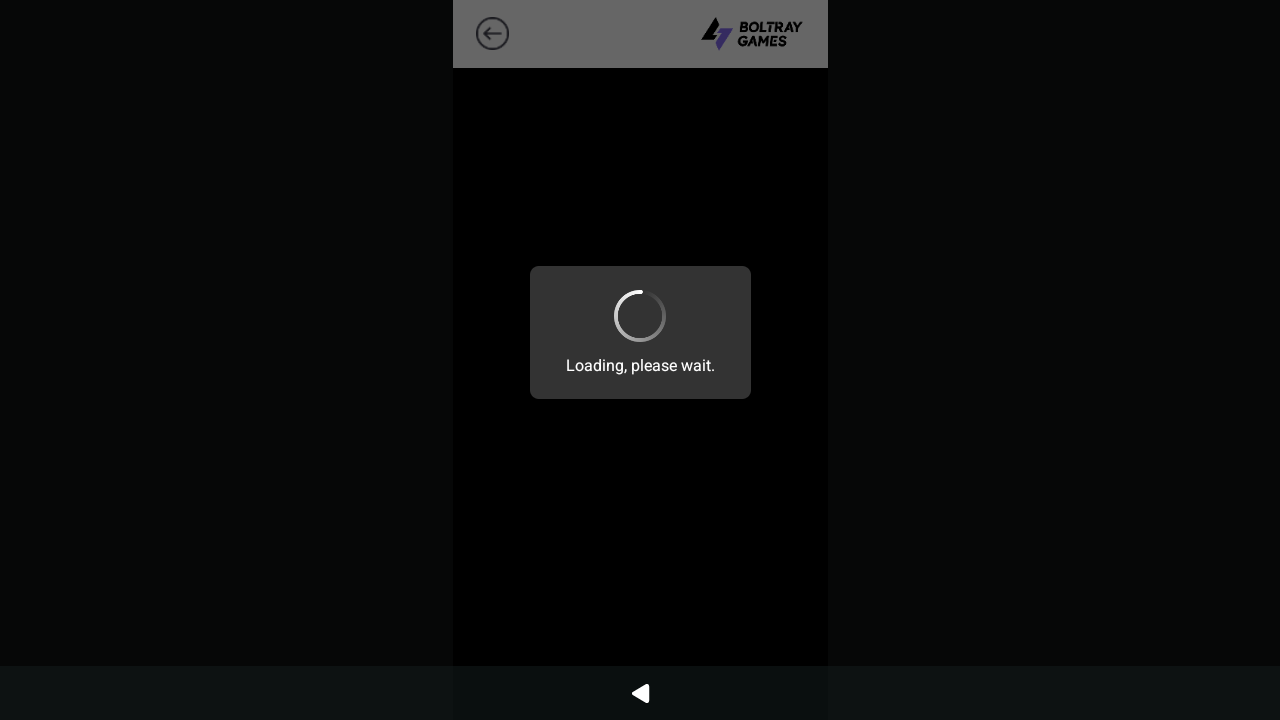
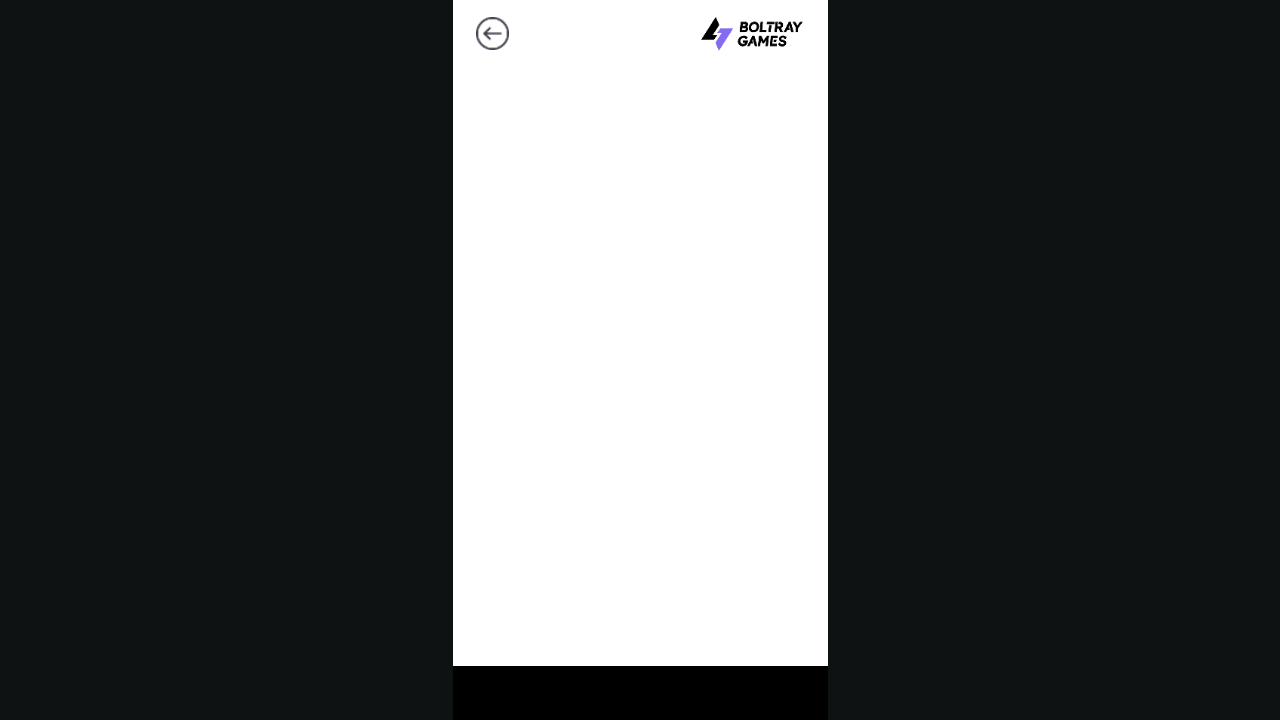
Change a plugin's value
BotMaker-Origin: safety

Changed region(s): [[0.3438, 0.0, 0.6562, 0.9778]]

diff --git a/src/main/java/com/swordxstaff/plugins/com_github_botmakerdev/botmaker_sdk/Pictures.java b/src/main/java/com/swordxstaff/plugins/com_github_botmakerdev/botmaker_sdk/Pictures.java
@@ -15,6 +15,8 @@ public final class Pictures {
             .at(new Rect(632, 699, 17, 16));
     public static final ImageTemplate POLICY_BACK_ARROW = new ImageTemplate("images/policy_back_arrow.png")
             .at(new Rect(472, 14, 40, 40));
+    public static final ImageTemplate BOLTRAY_PAGE_LOGO = new ImageTemplate("images/boltray_page_logo.png")
+            .at(new Rect(698, 12, 110, 42));
 
     private Pictures() {
     }

diff --git a/src/main/java/com/swordxstaff/plugins/com_github_botmakerdev/botmaker_sdk/Screens.java b/src/main/java/com/swordxstaff/plugins/com_github_botmakerdev/botmaker_sdk/Screens.java
@@ -53,6 +53,7 @@ public final class Screens {
         public Setup setup() {
             return Setup
                     .named("Privacy Policy")
+                    .markers(List.of(Pictures.BOLTRAY_PAGE_LOGO))
                     .elements(List.of(Elements.BOLTRAY_GAMES_PRIVACY_POLICY))
                     .back(Screens.PRIVACY_POLICY.policyBackArrow)
                     .takes(Duration.ofMillis(3400L))
